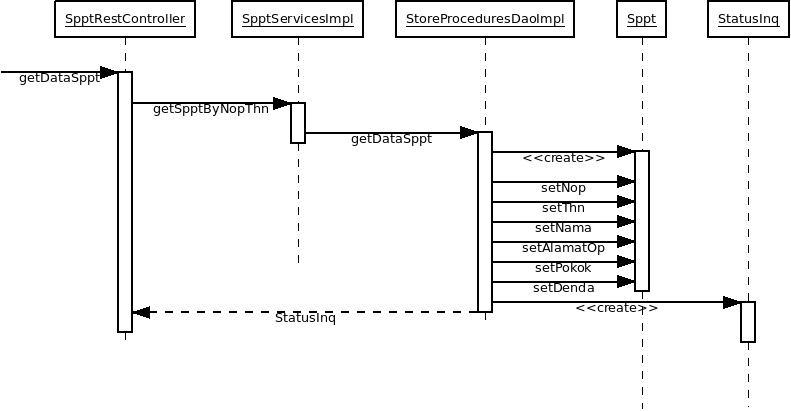
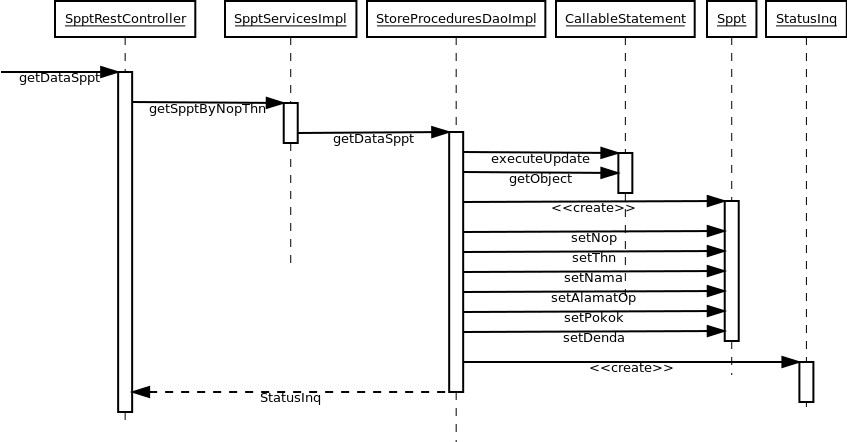
update content

Changed region(s): [[0.0, 0.146, 0.9709, 0.9343], [0.0607, 0.0, 1.0, 0.1168], [0.3338, 0.7591, 0.4248, 0.7883]]

diff --git a/04.arsitektur-sistem.tex b/04.arsitektur-sistem.tex
@@ -206,42 +206,9 @@ Pada diagram \textit{class} ini, akan membahas detail dari tiap kelas pembentuk 
 
 Untuk penjelasan diagram \textit{sequence} ini pun, agar diagram terlihat jelas alurnya, maka perlu dipecah menjadi beberapa bagian. Agar lebih mudah memahami prosesnya, diagram akan dipecah seperti pada diagram \textit{class} yaitu hanya saja untuk diagram \textit{sequence} ini akan berbentuk skenario-skenario sebagai berikut :
 
-\begin{enumerate}
-  \item Skenario \textit{Inquiry} Gagal Karena Tahun Pajak Mengandung Karakter Bukan Angka
-  
-  Pada skenario ini, \textit{client} mengirimkan \textit{request} tetapi ada kesalahan bahwa tahun pajak yang di-\textit{request} oleh \textit{client} mengandung karakter bukan angka. Diagram \textit{statechart} dari skenario 
-  
-  \item Skenario \textit{Inquiry} Gagal Karena Data Tidak Ditemukan
-  \item Skenario \textit{Inquiry} Gagal Karena Kesalahan Server
-  \item Skenario \textit{Inquiry} Sukses
-  \item Skenario Transaksi Pembayaran Gagal Karena Jam Pembayaran Melebihi Jam Pencatatan.
-  \item Skenario Transaksi Pembayaran Gagal Karena Tagihan Telah Terbayar Atau Nihil
-  \item Skenario Transaksi Pembayaran Gagal Karena Telah Dibatalkan
-  \item Skenario Transaksi Pembayaran Gagal Karena Kesalahan Server
-  \item Skenario Transaksi Pembayaran Sukses
-  \item Skenario \textit{Reversal} Gagal Karena Data Yang Diminta Tidak Ada
-  \item Skenario \textit{Reversal} Gagal Karena Ada Data Pembayaran Yang Tercatat Ganda
-  \item Skenario \textit{Reversal} Gagal Karena Kesalahan Server
-  \item Skenario \textit{Reversal} Sukses
-\end{enumerate}
+\subsection{Skenario Konfigurasi \textit{Spring Framework}}
 
-\subsection{Skenario \textit{Inquiry} Gagal Karena Data Tidak Ditemukan}
-\subsection{Skenario \textit{Inquiry} Gagal Karena Kesalahan Server}
-\subsection{Skenario \textit{Inquiry} Sukses}
-\subsection{Skenario Transaksi Pembayaran Gagal Karena Jam Pembayaran Melebihi Jam Pencatatan}
-\subsection{Skenario Transaksi Pembayaran Gagal Karena Tagihan Telah Terbayar Atau Nihil}
-\subsection{Skenario Transaksi Pembayaran Gagal Karena Telah Dibatalkan}
-\subsection{Skenario Transaksi Pembayaran Gagal Karena Kesalahan Server}
-\subsection{Skenario Transaksi Pembayaran Sukses}
-\subsection{Skenario \textit{Reversal} Gagal Karena Data Yang Diminta Tidak Ada}
-\subsection{Skenario \textit{Reversal} Gagal Karena Ada Data Pembayaran Yang Tercatat Ganda}
-\subsection{Skenario \textit{Reversal} Gagal Karena Kesalahan Server}
-\subsection{Skenario \textit{Reversal} Sukses}
-
-\begin{enumerate}
-  \item Bagian Konfigurasi
-  
-  Bagian ini akan menjelaskan bagaimana alur dari awal \textit{server} melakukan inisialisasi sistem, sampai kepada tahap \textit{server} siap menerima \textit{request}. Diagram \textit{sequence} untuk keadaan ini dapat dilihat seperti pada gambar \ref{fig:uml-seq-konf} :
+Bagian ini akan menjelaskan bagaimana alur dari awal \textit{server} melakukan inisialisasi sistem, sampai kepada tahap \textit{server} siap menerima \textit{request}. Diagram \textit{sequence} untuk keadaan ini dapat dilihat seperti pada gambar \ref{fig:uml-seq-konf} :
   
   \begin{figure}[H]
     \centering
@@ -256,9 +223,54 @@ Untuk penjelasan diagram \textit{sequence} ini pun, agar diagram terlihat jelas 
   
   Selain melakukan inisialisasi terhadap kelas SpptRestController, kelas AppConfig pun melakukan inisialisasi terhadap kelas HibernateConfiguration. Kelas HibernateConfiguration ini mempersiapkan koneksi dengan basis data dengan menyediakan modul-modul yang dapat digunakan pada sistem aplikasi nantinya.
   
-  \item Bagian \textit{Inquiry}
-  
-  Untuk alur proses \textit{inquiry}, diagram \textit{sequence}-nya dapat dilihat seperti pada gambar \ref{fig:uml-seq-inq} :
+\subsection{Skenario \textit{Inquiry} Gagal Karena Tahun Pajak Bukan Angka}
+
+Skenario ini akan menggambarkan kondisi dimana \textit{client} mengirimkan \textit{request inquiry}, namun setelah diseleksi oleh \textit{server} terdapat karakter bukan angka pada tahun pajak yang di-\textit{request}. Diagram \textit{sequence} dari skenario ini dapat dilihat pada gambar \ref{fig:uml-seq-inq-thn-not-valid} :
+
+\begin{figure}[H]
+  \centering
+  \includegraphics[width=0.8\textwidth]{./resources/uml/uml-seq-inq-thn-not-valid}
+  \caption{Diagram \textit{Sequence} Kegagalan \textit{Inquiry} Karena Tahun Pajak Mengandung Karakter Bukan Angka}
+  \label{fig:uml-seq-inq-thn-not-valid}
+\end{figure}
+
+Objek yang saling berhubungan memang hanya 2 (dua) saja untuk sekenario ini, karena seleksi terhadap karakter pada parameter tahun pajak diperiksa 
+
+\subsection{Skenario \textit{Inquiry} Gagal Karena Data Tidak Ditemukan}
+
+Pada skenario ini, \textit{client} mengirimkan \textit{request} tetapi ada kesalahan bahwa tahun pajak yang di-\textit{request} oleh \textit{client} mengandung karakter bukan angka. Diagram \textit{sequence} dari skenario ini seperti terlihat pada gambar \ref{fig:uml-seq-inq-not-any} :
+
+\begin{figure}[H] 
+  \centering
+  \includegraphics[width=1\textwidth]{./resources/uml/uml-seq-inq-not-any}
+  \caption{Diagram \textit{Sequence} Kegagal \textit{Inquiry} Karena Data Tidak Ada Dalam Basis Data}
+  \label{fig:uml-seq-inq-not-any}
+\end{figure}
+
+Pada diagram \textit{sequence} tersebut, permintaan atau \textit{request} dari \textit{client} akan diterima \textit{server} dan diteruskan oleh \textit{framework} Spring ke \textit{method} getDataSppt milik kelas SpptRestController.
+
+Kemudian \textit{method} getDataSppt akan memanggil \textit{method} getSpptByNopThn milik kelas SpptServicesImpl, yang didalamnya hanya memanggil \textit{method} getDataSppt milik kelas StoreProceduresDaoImpl.
+
+Didalam \textit{method} getDataSppt milik kelas StoreProceduresDaoImpl, terdapat proses koneksi ke basis data melalui kelas CallableStatement, yang pertama melakukan pemanggilan \textit{method} executeUpdate milik untuk mengeksekusi atau memanggil \textit{store procedure} milik basis data, kemudian mengambil nilai balikkannya melalui \textit{method} getObject.
+
+Terakhir adalah melakukan pemeriksaan terhadap nilai balikan dari pembanggil \textit{store procedure} milik basis data, bila nilai kembalian nihil, maka \textit{method} getDataSppt akan membuat instan dari kelas StatusInq, kemudian nilainya dikembalikan ke kelas SpptRestController yang tentu saja dikirimkan hasilnya ke \textit{client}.
+
+\subsection{Skenario \textit{Inquiry} Gagal Karena Kesalahan Server}
+
+Pada skenario ini, \textit{client} melakukan \textit{request inquiry} ke \textit{server}, namun karena beberapa hal, komunikasi antara \textit{server} basis data dan \textit{server} aplikasi mengalami gangguan, sehingga proses \textit{inquiry} gagal dan mengirimkan pesan ke \textit{client} bahwa \textit{request} yang dikirimkan telah gagal diproses. Gambar Diagram \textit{sequence} dari skenario ini dapat dilihat seperti pada gambar \ref{fig:uml-seq-inq-db-error} :
+
+\begin{figure}[H]
+  \centering
+  \includegraphics[width=1\textwidth]{./resources/uml/uml-seq-inq-db-error}
+  \caption{Diagram \textit{Sequence} Untuk Proses \textit{Inquiry} Yang Gagal Karena Kesalahan Server}
+  \label{fig:uml-seq-inq-db-error}
+\end{figure}
+
+Diagramnya terlihat sama dengan skenario sebelumnya, yaitu \textit{inquiry} yang gagal karena datanya tidak ada, yang membedakan adalah pada saat \textit{method} getDataSppt milik kelas StoreProceduresDaoImpl melakukan pemanggilan \textit{store procedure} milik basis data melalui \textit{method} executeUpdate pada kelas CallableStatement ada kesalahan, sehingga \textit{method} getDataSppt milik kelas StoreProceduresDaoImpl membuat instan dari kelas StatusInq dan mengembalikannya ke kelas SpptRestController yang kemudian menjadi respon yang dikirim ke \textit{client} sebagai informasi bahwa \textit{request} yang dikirimkan ke \textit{server} gagal diproses.
+
+\subsection{Skenario \textit{Inquiry} Sukses}
+
+Untuk alur proses \textit{inquiry} yang sukses, diagram \textit{sequence}-nya dapat dilihat seperti pada gambar \ref{fig:uml-seq-inq} :
   
   \begin{figure}[H]
     \centering
@@ -272,6 +284,23 @@ Untuk penjelasan diagram \textit{sequence} ini pun, agar diagram terlihat jelas 
   Pada kelas StoreProceduresDaoImpl, \textit{method} getDataSppt melakukan koneksi ke basis data dan menampung hasilnya pada kelas Sppt. Hasil-hasil yang diperoleh dari basis data berupa NOP, Tahun Pajak, Nama Wajib Pajak, Alamat Objek Pajak, Besarnya tagihan pokok, dan besarnya Denda Administrasi. Semuanya ditampung yang ditandai dengan pemanggilan \textit{method} setNop, setThn, setNama, setAlamatOp, setPokok, dan setDenda.
   
   Sebelum dikirimkan kembali ke \textit{client}, maka data atau informasi yang ditampung dalam kelas Sppt dipaketkan dengan kelas StatusInq, yang hasilnya dikembalikan ke \textit{client} dalam bentuk kelas StatusInq.
+
+\subsection{Skenario Transaksi Pembayaran Gagal Karena Jam Pembayaran Melebihi Jam Pencatatan}
+\subsection{Skenario Transaksi Pembayaran Gagal Karena Tagihan Telah Terbayar Atau Nihil}
+\subsection{Skenario Transaksi Pembayaran Gagal Karena Telah Dibatalkan}
+\subsection{Skenario Transaksi Pembayaran Gagal Karena Kesalahan Server}
+\subsection{Skenario Transaksi Pembayaran Sukses}
+\subsection{Skenario \textit{Reversal} Gagal Karena Data Yang Diminta Tidak Ada}
+\subsection{Skenario \textit{Reversal} Gagal Karena Ada Data Pembayaran Yang Tercatat Ganda}
+\subsection{Skenario \textit{Reversal} Gagal Karena Kesalahan Server}
+\subsection{Skenario \textit{Reversal} Sukses}
+
+\begin{enumerate}
+  
+  
+  \item Bagian \textit{Inquiry}
+  
+  
   
   \item Bagian Transaksi Pembayaran
   
